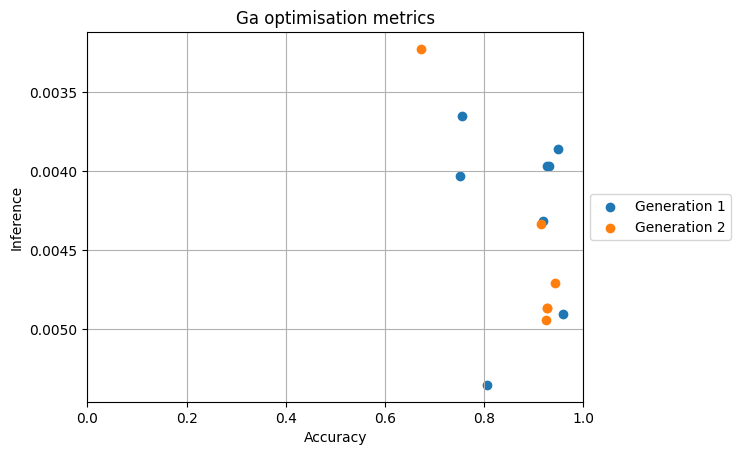
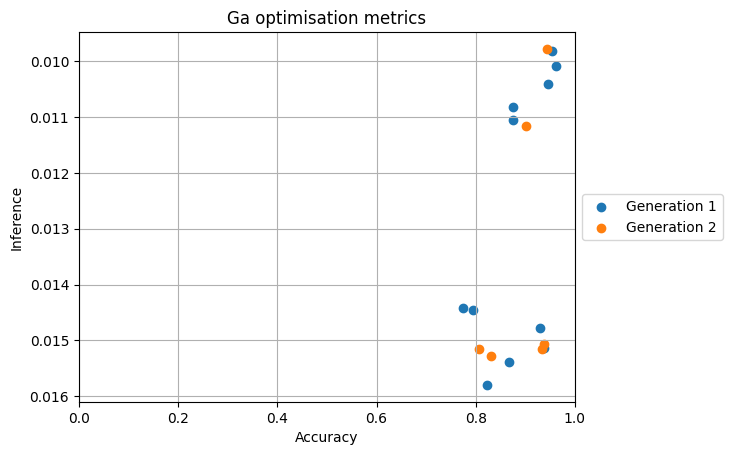
added nb of capsules to nas

diff --git a/src/NsgaII.py b/src/NsgaII.py
@@ -48,10 +48,11 @@ class Nsga_II:
         self.test_data = test_data
         self.n_runs = n_runs
 
-        self.n_var = 7
-        self.vars = ['epochs', 'epsilon', 'm_plus', 'm_minus', 'lambda_', 'alpha', 'r']
-        self.mins = [1, 0.01, 0.9, 0.05, 0.1, 0.0001, 2]
-        self.maxs = [10, 0.1, 0.99, 0.2, 1.0, 0.01, 5]
+        self.n_var = 9
+        self.n_conv_kernels = [32, 64, 128, 512]
+        self.vars = ['epochs', 'r', 'no_of_conv_kernels', 'secondary_capsule_vector', 'epsilon', 'm_plus', 'm_minus', 'lambda_', 'alpha']
+        self.mins = [1, 2, 0, 2, 0.01, 0.9, 0.05, 0.1, 0.0001]
+        self.maxs = [10, 5, 3, 50, 0.1, 0.99, 0.2, 1.0, 0.01]
 
         self.time_start = None
 
@@ -64,11 +65,11 @@ class Nsga_II:
         """
         pop = np.zeros((self.pop_size, self.n_var))
         for i in range(self.pop_size):
-            # making sure the epochs and r are integers.
-            pop[i][0] = np.random.randint(self.mins[0], self.maxs[0])
-            pop[i][-1] = np.random.randint(self.mins[-1], self.maxs[-1])
-            for j in range(1, self.n_var - 1):
-                pop[i][j] = np.random.uniform(self.mins[j], self.maxs[j])
+            for j in range(0, 4):
+                pop[i][j] = np.random.randint(self.mins[j], self.maxs[j])
+            for k in range(4, self.n_var):
+                pop[i][k] = np.random.uniform(self.mins[k], self.maxs[k])
+            pop[i][2] = self.n_conv_kernels[int(pop[i][2])]
         return pop
 
     # Get two parents from the population
@@ -177,13 +178,13 @@ class Nsga_II:
             # making sure we have integer values for epochs and rounds
             genotype['epochs'] = round(genotype['epochs'])
             genotype['r'] = round(genotype['r'])
-            # TODO
-            genotype['no_of_conv_kernels'] = 128
+            genotype['no_of_conv_kernels'] = round(genotype['no_of_conv_kernels'])
+            genotype['secondary_capsule_vector'] = round(genotype['secondary_capsule_vector'])
+
             genotype['no_of_primary_capsules'] = 32
-            genotype['no_of_secondary_capsules'] = 10
             genotype['primary_capsule_vector'] = 8
-            genotype['secondary_capsule_vector'] = 16
-            
+            genotype['no_of_secondary_capsules'] = 10
+
             # build model with found genotype
             model = CapsNet(**genotype)
             print(f'Fitting individual {i + 1}/{len(pop)} with genotype {genotype}')

diff --git a/src/CapsNet.py b/src/CapsNet.py
@@ -285,6 +285,5 @@ class CapsNet(tf.keras.Model):
         sn.heatmap(df_cm, annot=True)
         # Classification metrics
         report = classification_report(y_test, preds, output_dict=True)
-        df = pd.DataFrame(report).transpose()
-        df.index = classes + ['accuracy', 'macro avg', 'weighted avg']
+        df = pd.DataFrame(report, columns=list(classes).extend(["accuracy", "macro avg", "weighted avg"])).transpose()
         return df
